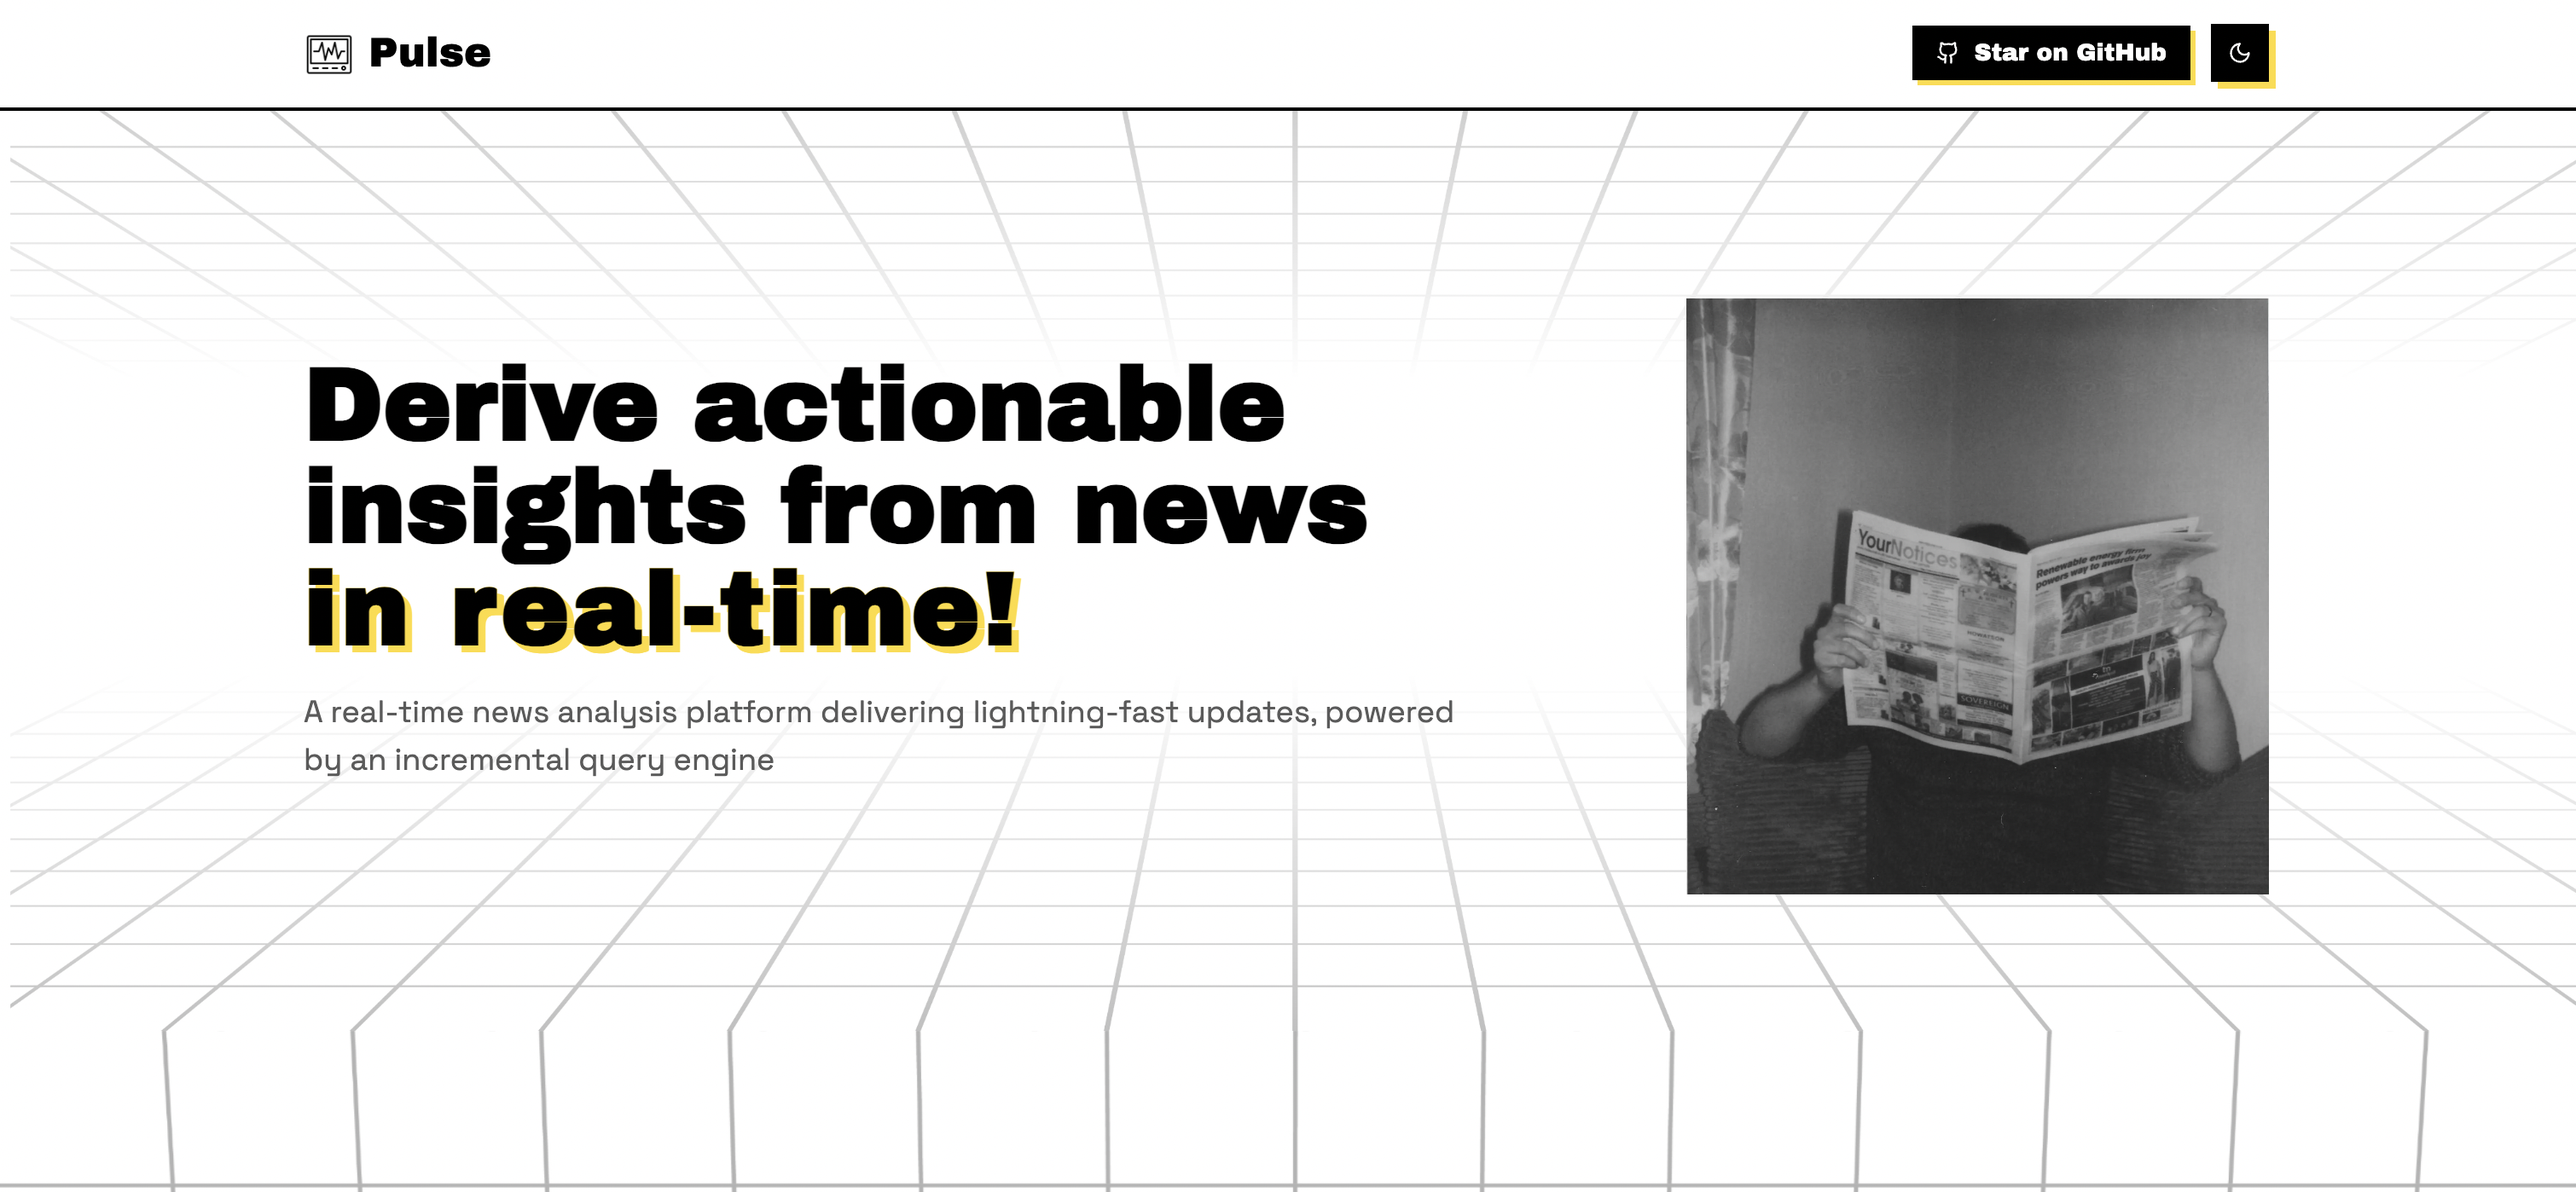
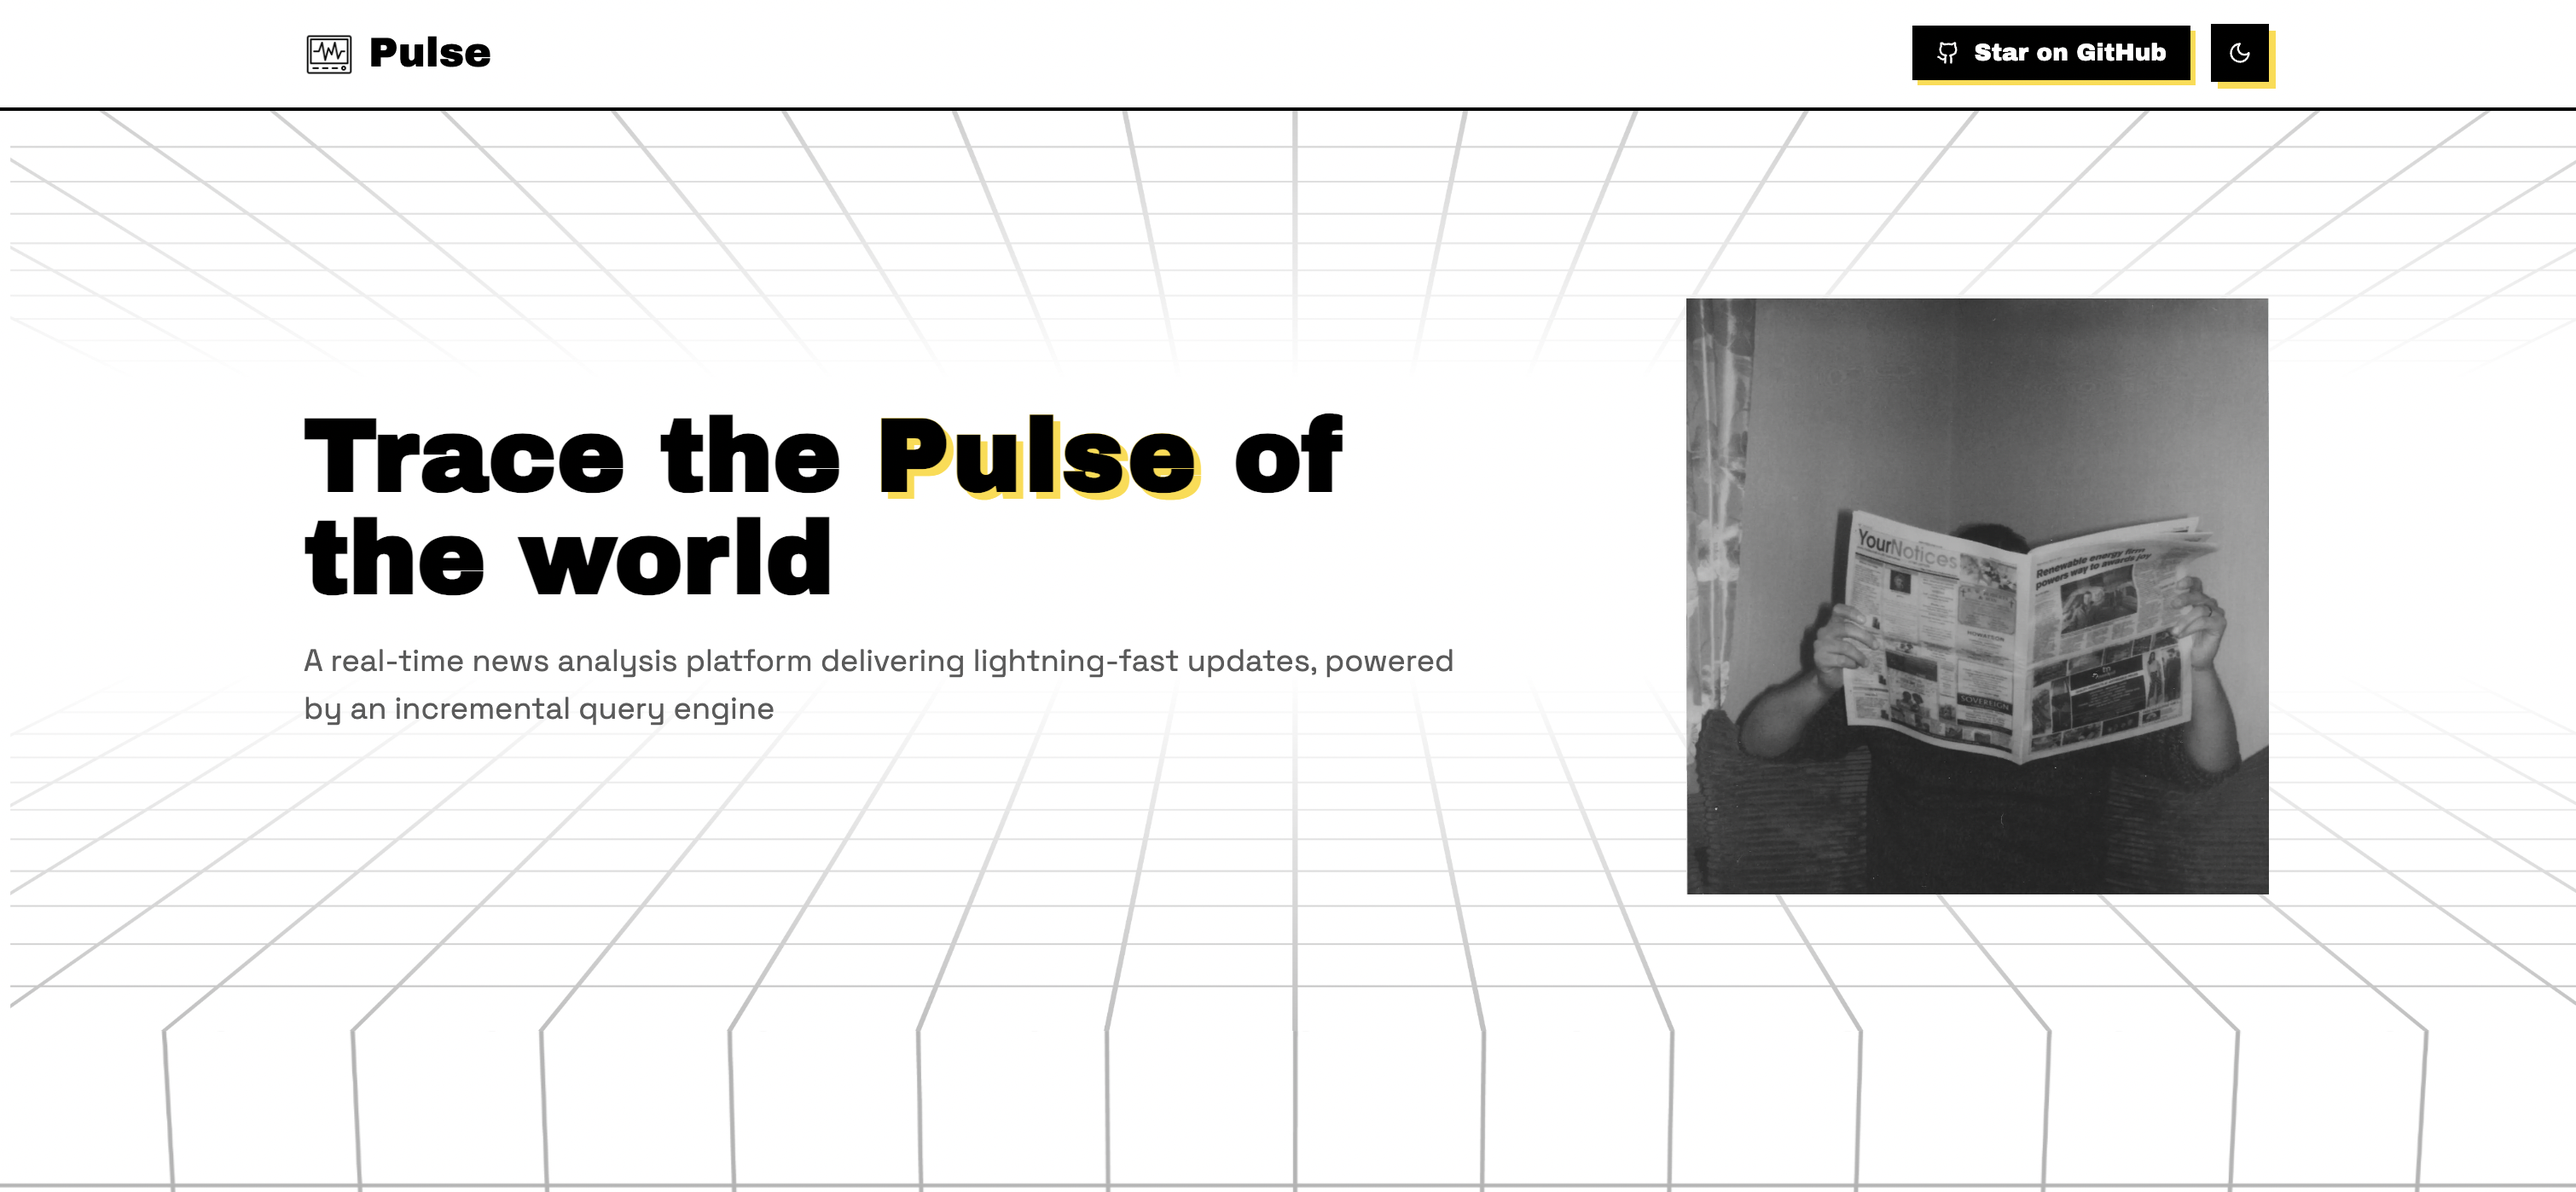
Small change

Changed region(s): [[0.0934, 0.3076, 0.5603, 0.6459]]

diff --git a/pulse-ui/app/(marketing)/page.tsx b/pulse-ui/app/(marketing)/page.tsx
@@ -17,11 +17,8 @@ export default async function Home() {
         <section className="container max-w-6xl mx-auto px-4 lg:px-0 text-gray-900 flex justify-center items-center lg:gap-28 xl:gap-32 my-28">
           <div className="text-center lg:text-left w-full lg:w-2/3">
             <Text as="h1" className="text-5xl text-foreground lg:text-6xl">
-              Derive actionable insights from news
-              <br />
-              <span className="text-outlined"> in real-time!</span>
+              Trace the <span className="text-outlined">Pulse</span> of the world
             </Text>
-
             <p className="text-lg text-muted-foreground mb-8 mt-4">
               A real-time news analysis platform delivering lightning-fast updates, powered by an incremental query engine
             </p>
@@ -54,7 +51,7 @@ export default async function Home() {
       <section className="container max-w-6xl mx-auto px-4 lg:px-0 flex justify-center items-center lg:gap-28 xl:gap-32 my-28">
         <Image
           alt="architecture"
-          src="/images/pulse.svg"
+          src="/images/pulse/pulse.svg"
           layout="responsive"
           width={1000}
           height={1000}
